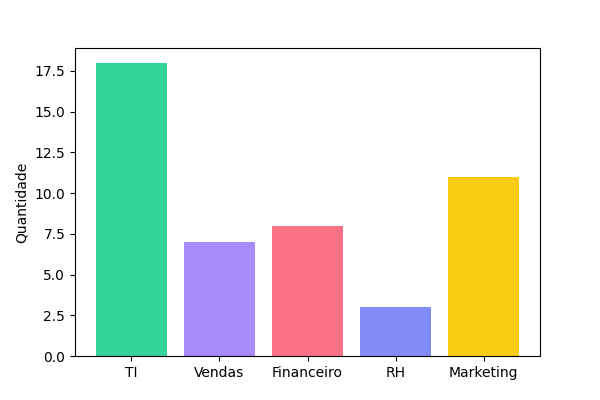
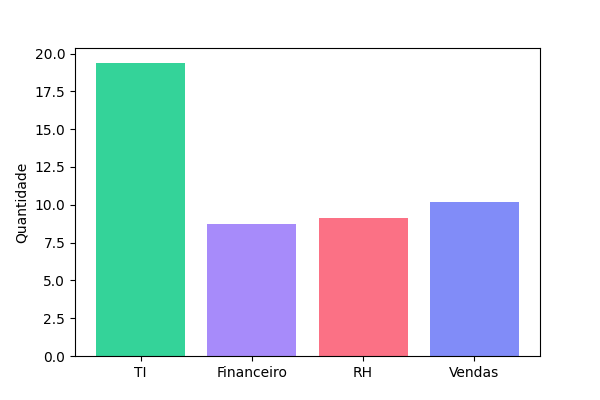
Functions update

diff --git a/functions.py b/functions.py
@@ -353,3 +353,22 @@ def float_to_rs(salary):
         Número formatado
     """
     return f"{salary:,.2f}".replace(".", ",").replace(",", ".", 1)
+
+# Cria e salva o gráfico das horas extras por área
+def plotnsave_overtime():
+    areas, horas = config.get_overtime_stats()
+
+    colors = [
+    "#34d399", "#a78bfa", "#fb7185", "#818cf8", "#facc15",
+    "#ff6b6b", "#7f9cf5", "#f3a683", "#63b3ed", "#f8a5c2",
+    "#00adb5", "#ffc75f", "#8338ec", "#f6416c", "#ffafcc",
+    "#00f5d4", "#ff9f1c", "#7ed6df", "#8ac926", "#ff9b54",
+]
+    
+    bar_labels = ["#34d399", "#a78bfa", "#fb7185", "#818cf8", "#facc15"]
+    bar_colors = ["#34d399", "#a78bfa", "#fb7185", "#818cf8", "#facc15"]
+
+    fig, ax = plt.subplots(figsize=(6, 4))
+    ax.bar(areas, horas, label=bar_labels, color=bar_colors)
+    ax.set_ylabel("Quantidade")
+    plt.savefig(r"Charts\overtime_chart")

diff --git a/config.py b/config.py
@@ -698,15 +698,4 @@ def get_overtime_stats():
         else:
             dict_hours[area] += horas
         
-    return (list(dict_hours.keys()), list(dict_hours.values()))
-    
-
-    
-
-        
-
-    # Substituir o ID pela área do funcionário
-
-# Cria e salva o gráfico das horas extras por área
-def plotnsave_overtime():
-    pass
+    return (list(dict_hours.keys()), list(dict_hours.values()))  # ([areas], [horas])
